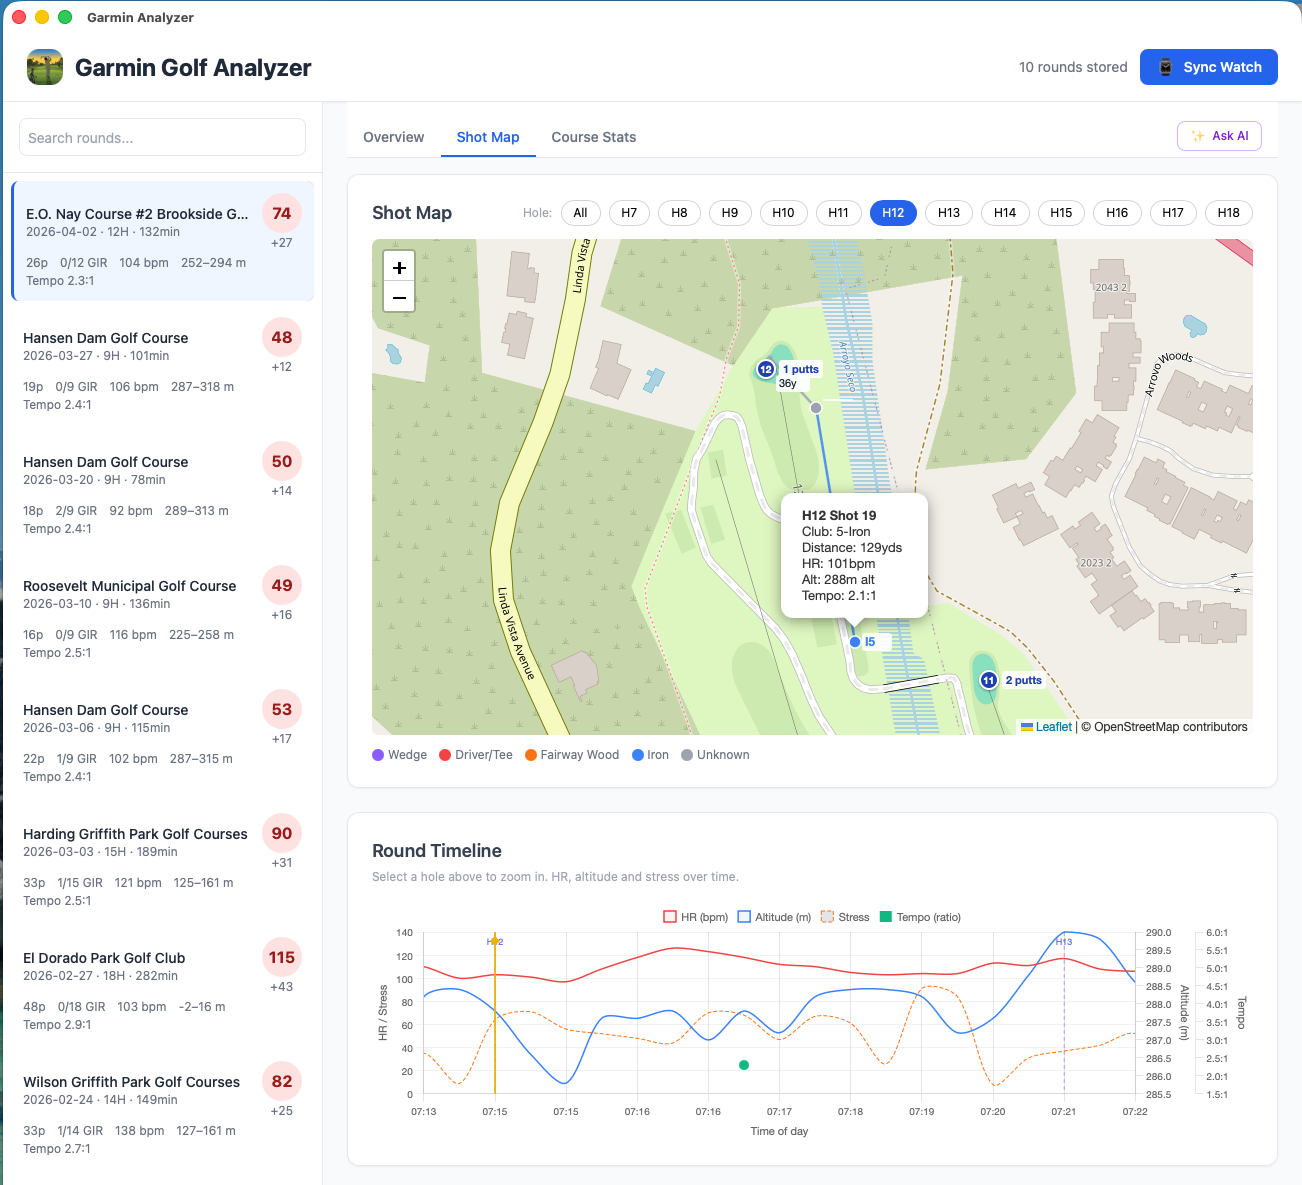
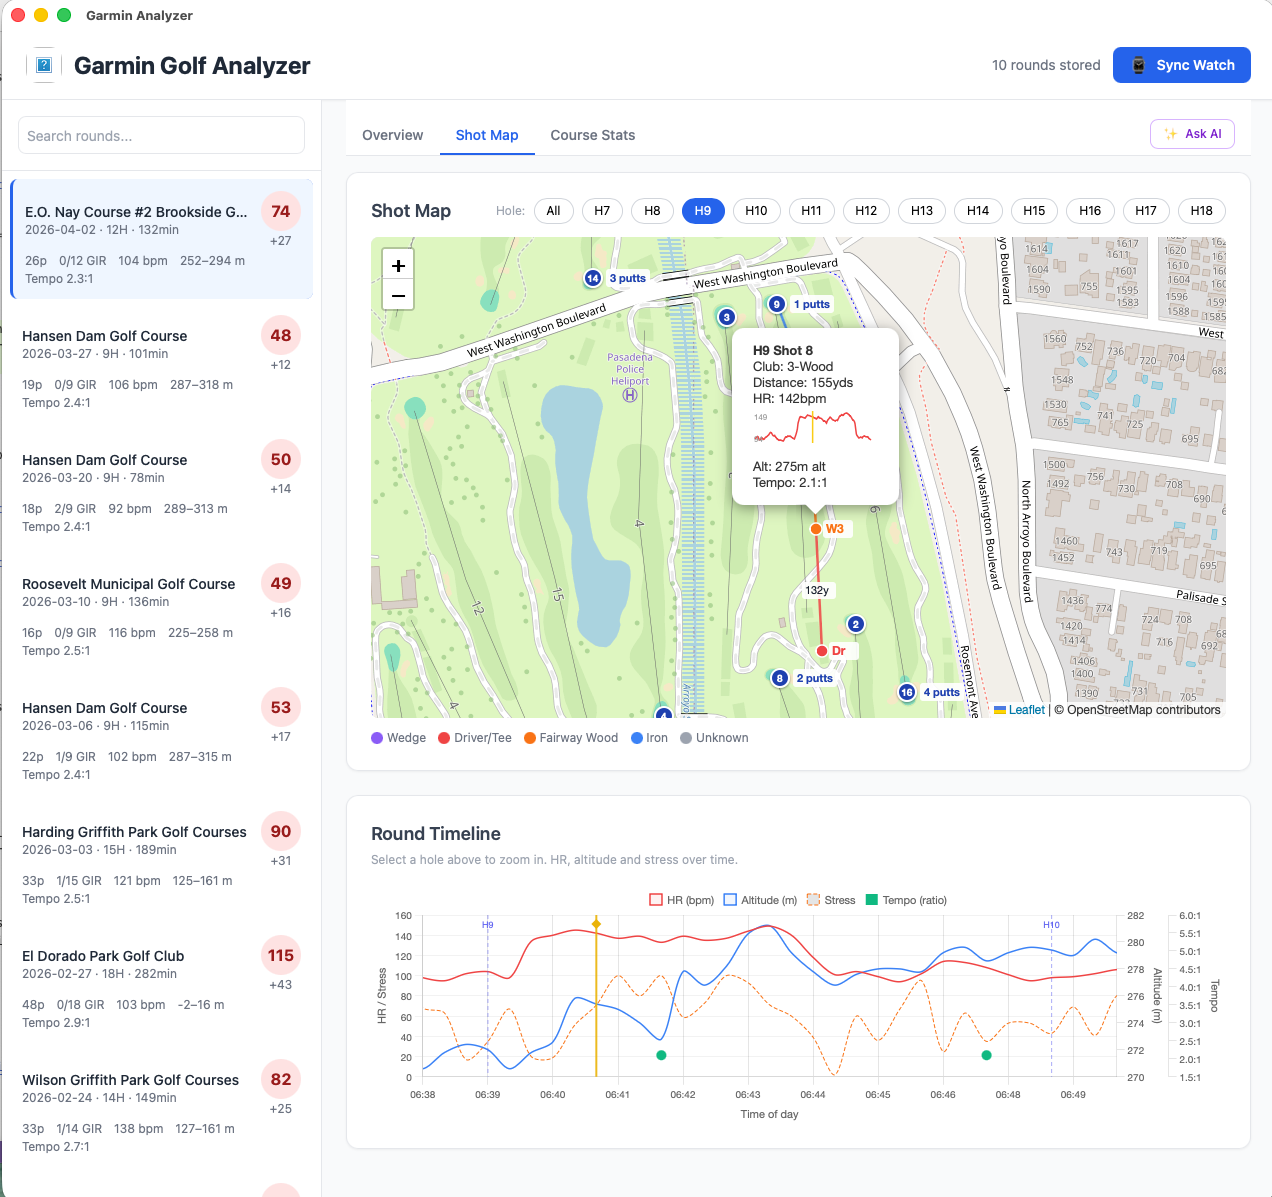
Add HR sparkline chart to shot detail popup
Show a mini SVG sparkline (±5 min HR window) next to the HR value
in shot map popups, with a yellow marker at the shot moment.

Bump version to 0.1.4

diff --git a/web/js/app.js b/web/js/app.js
@@ -736,6 +736,40 @@ function buildShotMap(round) {
     </div>`;
 }
 
+// Mini HR sparkline for shot popups — shows ±5 min of HR around the shot timestamp
+function hrSparkline(shot, healthTimeline) {
+    if (!shot.timestamp || !healthTimeline?.length) return '';
+    const W = 120, H = 32, PAD = 2;
+    const windowSec = 300; // ±5 min
+    const pts = healthTimeline.filter(s =>
+        s.heart_rate != null &&
+        Math.abs(s.timestamp - shot.timestamp) <= windowSec
+    );
+    if (pts.length < 3) return '';
+    const hrs = pts.map(s => s.heart_rate);
+    const minHr = Math.min(...hrs), maxHr = Math.max(...hrs);
+    const range = maxHr - minHr || 1;
+    const xStep = (W - PAD * 2) / (pts.length - 1);
+    const toY = v => PAD + (H - PAD * 2) * (1 - (v - minHr) / range);
+    const line = pts.map((s, i) => `${PAD + i * xStep},${toY(s.heart_rate)}`).join(' ');
+    // Shot position marker
+    let markerX = null;
+    let closestDiff = Infinity;
+    pts.forEach((s, i) => {
+        const d = Math.abs(s.timestamp - shot.timestamp);
+        if (d < closestDiff) { closestDiff = d; markerX = PAD + i * xStep; }
+    });
+    const marker = markerX != null
+        ? `<line x1="${markerX}" y1="0" x2="${markerX}" y2="${H}" stroke="#facc15" stroke-width="1.5"/>`
+        : '';
+    return `<svg width="${W}" height="${H}" style="display:block;margin:4px 0 0">
+        <polyline points="${line}" fill="none" stroke="#ef4444" stroke-width="1.5"/>
+        ${marker}
+        <text x="1" y="9" font-size="8" fill="#999">${maxHr}</text>
+        <text x="1" y="${H - 1}" font-size="8" fill="#999">${minHr}</text>
+    </svg>`;
+}
+
 const CLUB_COLORS = {
     tee:          '#ef4444',  // red
     fairway_wood: '#f97316',  // orange
@@ -843,12 +877,13 @@ function renderShotMap(round) {
 
         // Popup content — putts show hole putt count
         const puttsLine = isPutt ? `Putts this hole: ${holePutts[shot.hole_number] ?? '?'}` : null;
+        const spark = hr ? hrSparkline(shot, round.health_timeline) : '';
         const popupLines = [
             `<b>H${shot.hole_number} ${isPutt ? 'Putt' : `Shot ${shotNum}`}</b>`,
             `Club: ${club}`,
             dist      ? `Distance: ${dist}` : null,
             puttsLine,
-            hr        ? `HR: ${hr}` : null,
+            hr        ? `HR: ${hr}${spark}` : null,
             alt       ? `Alt: ${alt}` : null,
             shot.swing_tempo != null ? `Tempo: ${shot.swing_tempo.toFixed(1)}:1` : null,
         ].filter(Boolean).join('<br>');
